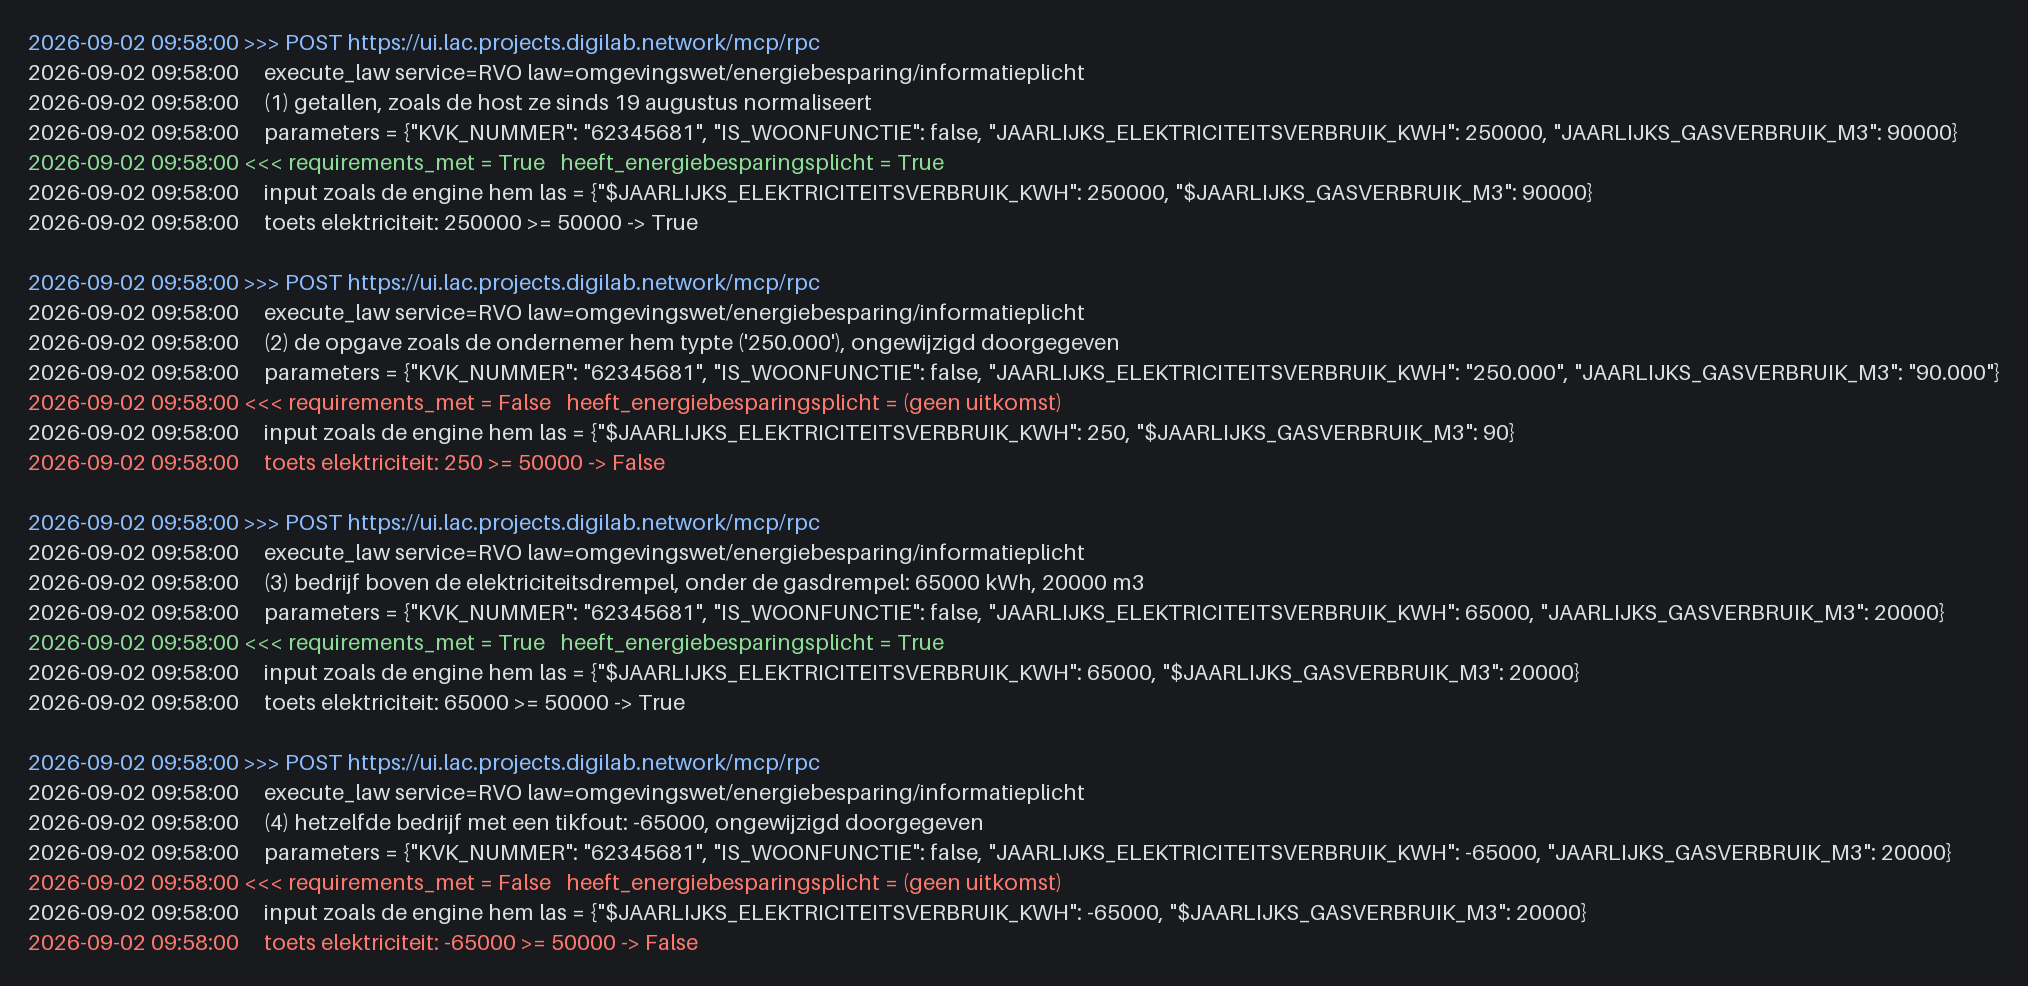
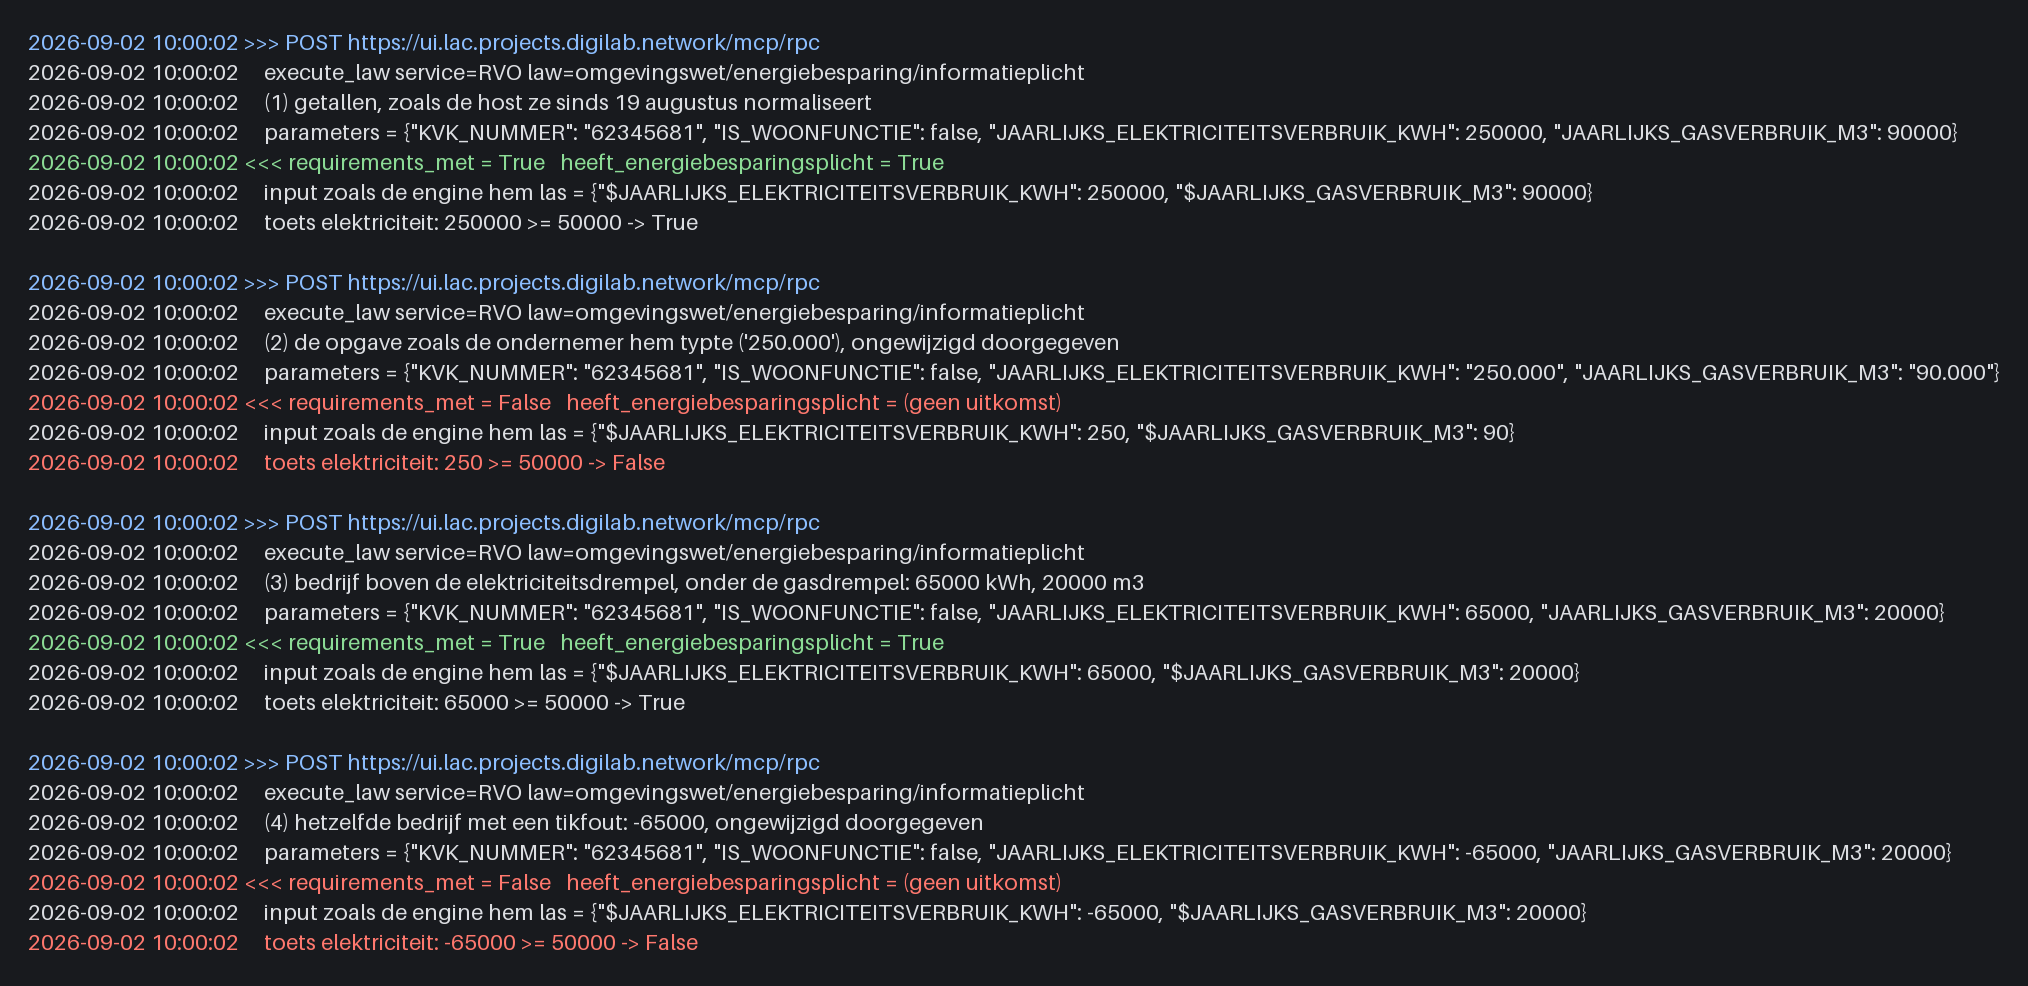
docs: PDR-014 vierde reviewronde
De zin over de volgende rapportageronde met datum bleek een
promptvoorbeeld met een slot dat de host vult, geen uitspraak van het
model; uit PDR, rapport en beoordeling gehaald. Verder: twee bronnen
plus de toets in plaats van drie bronnen; het guardrail-citaat
letterlijk; zes onbesproken punten uit de pre-read van 23 juli en de
Koen-correctie in de vervolgacties; de KvK-promptregel letterlijk;
figuur 3 opnieuw gerenderd uit de gecommitte log; script voor de
zestig engine-runs toegevoegd; tellingen 4,85 s en 7 van 12.

diff --git a/docs/superpowers/plans/toets-pdr-014/maak-engine-runs.py b/docs/superpowers/plans/toets-pdr-014/maak-engine-runs.py
@@ -1,0 +1,82 @@
+"""Maakt engine-runs.json: zes invoercases, elk tien keer, tegen de echte engine.
+
+Meet of de engine deterministisch is (identieke uitkomst per case) en hoe lang
+een aanroep duurt. Geen taalmodel, geen sleutel; wel netwerk.
+
+    uv run python docs/superpowers/plans/toets-pdr-014/maak-engine-runs.py
+"""
+
+import json
+import os
+import statistics
+import time
+from pathlib import Path
+
+import httpx
+
+URL = os.getenv("REGELRECHT_RPC_URL", "https://ui.lac.projects.digilab.network/mcp/rpc")
+LAW = "omgevingswet/energiebesparing/informatieplicht"
+RUNS = 10
+UIT = Path(__file__).parent / "engine-runs.json"
+
+BASIS = {"KVK_NUMMER": "62345681", "IS_WOONFUNCTIE": False}
+CASES = {
+    "E1 genormaliseerd 250000/90000": {
+        **BASIS, "JAARLIJKS_ELEKTRICITEITSVERBRUIK_KWH": 250000, "JAARLIJKS_GASVERBRUIK_M3": 90000
+    },
+    "E2 string '250.000'/'90.000'": {
+        **BASIS, "JAARLIJKS_ELEKTRICITEITSVERBRUIK_KWH": "250.000", "JAARLIJKS_GASVERBRUIK_M3": "90.000"
+    },
+    "E3 65000/20000": {
+        **BASIS, "JAARLIJKS_ELEKTRICITEITSVERBRUIK_KWH": 65000, "JAARLIJKS_GASVERBRUIK_M3": 20000
+    },
+    "E4 tikfout -65000/20000": {
+        **BASIS, "JAARLIJKS_ELEKTRICITEITSVERBRUIK_KWH": -65000, "JAARLIJKS_GASVERBRUIK_M3": 20000
+    },
+    "E5 leeg {}": {},
+    "E6 alleen KVK+woonfunctie": BASIS,
+}
+
+
+def aanroep(parameters: dict) -> tuple[dict, float]:
+    body = {
+        "jsonrpc": "2.0",
+        "id": 1,
+        "method": "tools/call",
+        "params": {
+            "name": "execute_law",
+            "arguments": {"service": "RVO", "law": LAW, "parameters": parameters},
+        },
+    }
+    t0 = time.perf_counter()
+    s = httpx.post(URL, json=body, timeout=30).json()["result"]["structuredContent"]
+    return s, time.perf_counter() - t0
+
+
+def main() -> None:
+    uit = {}
+    for naam, parameters in CASES.items():
+        uitkomsten, duren = [], []
+        for _ in range(RUNS):
+            s, duur = aanroep(parameters)
+            duren.append(duur)
+            uitkomsten.append(json.dumps({
+                "requirements_met": s["requirements_met"],
+                "plicht": s["output"].get("heeft_energiebesparingsplicht"),
+                "missing": s.get("missing_parameters"),
+                "input": {k: v for k, v in s["input"].items() if "VERBRUIK" in k},
+            }, sort_keys=True))
+        uit[naam] = {
+            "runs": RUNS,
+            "identiek": len(set(uitkomsten)) == 1,
+            "uitkomst": json.loads(uitkomsten[0]),
+            "ms_mediaan": round(statistics.median(duren) * 1000),
+            "ms_max": round(max(duren) * 1000),
+        }
+        print(naam, "| identiek:", uit[naam]["identiek"], "| ms mediaan/max",
+              uit[naam]["ms_mediaan"], uit[naam]["ms_max"])
+    UIT.write_text(json.dumps(uit, ensure_ascii=False, indent=1) + "\n")
+
+
+if __name__ == "__main__":
+    main()

diff --git a/docs/superpowers/plans/2026-09-02-toets-pdr-014.md b/docs/superpowers/plans/2026-09-02-toets-pdr-014.md
@@ -26,8 +26,9 @@ Die beoordeling heeft dit rapport op zes punten gecorrigeerd; zie
 Daarnaast:
 
 - **Engine direct, zonder taalmodel:** 6 invoercases × 10 runs op de
-  informatieplicht-regel (`toets-pdr-014/engine-runs.json`; script
-  `docs/decisions/assets/pdr-014/maak-log3.py`).
+  informatieplicht-regel (`toets-pdr-014/engine-runs.json`, gemaakt met
+  `toets-pdr-014/maak-engine-runs.py`; de vier aanroepen van figuur 3 komen
+  uit `docs/decisions/assets/pdr-014/maak-log3.py`).
 - **Losse eerste beurten:** 6 vragen × 3 runs op main en 3 vragen × 3 runs op
   f22f063 (`toets-pdr-014/vage-vragen.json`, `vage-vragen-2.json`). De
   informatieplicht-flow begint met een toestemmingsvraag en is daarom geen
@@ -37,7 +38,8 @@ Daarnaast:
   staan in `docs/decisions/assets/pdr-014/log4-*.txt` en `log5-*.txt`). De
   host logt elke tool-aanroep van het model als `Tool-aanroep [claude]: …` en
   elke weigering van de toestemmingspoort als `WARNING: Bron … geweigerd`.
-  De regelloop logt niets; een aanroep die in de log staat is van het model.
+  De regelloop logt zelf geen tool-aanroep (alleen de MCP-server schrijft een
+  `AUDIT`-regel); een `Tool-aanroep [claude]`-regel is dus van het model.
 
 Alle beurten zijn geklokt door `toets-pdr-014/meet.py` (wrapper om het
 meetscript); de analyse staat in `toets-pdr-014/analyse.py`, de uitvoer in
@@ -89,8 +91,8 @@ f22f063.
 | C1 | `"250.000"` komt bij de engine als 250 binnen; `-65000` geeft geen uitkomst (Kloof trede 5, Onderbouwing A, figuur 3) | **bevestigd, met precisering** | engine 10/10 identiek per case: E2 `"250.000"` → input 250, `"90.000"` → 90, `requirements_met=false`, `plicht=null`; E4 `-65000` idem. De engine geeft geen uitkomst en meldt geen ontbrekend veld; de host toonde dat vóór 19 augustus als "de plicht geldt niet". De PDR-tekst is daarop aangescherpt |
 | C2 | De eerste beurt bevat al uitspraken over wat geldt, bedragen, termijnen of indiening, vóórdat een bron is geraadpleegd (Kloof; Onderbouwing A "toezeggingen") | **niet bevestigd** | 37 eerste beurten (10 flow, 27 los). Regex-treffers over de 27 losse beurten: 8 antwoorden op main, 1 op f22f063, alle negen nagelezen: "Deadline: 1/31 december 2026" uit `rvo__zoek_regeling` (bron), "of dit voor u geldt kan ik toetsen zodra…" (voorbehoud), "Dan moet u vierjaarlijks rapporteren" (weergave van de regelingstekst, uit de bron), en keuze- of vraagzinnen ("Of de energiebesparingsplicht voor uw bedrijf geldt. Vraag dan…", "Kom ik in aanmerking…?"). Geen uitspraak over de situatie van de ondernemer zonder bron of voorbehoud. Flow-beurt 1 is 10/10 een toestemmingsvraag; arbeidsmarktvragen worden 12/12 geweigerd; "hoe zit dat dan met die verplichting" krijgt 3/3 de verduidelijkingsvraag met drie opties |
 | C3 | "Uw rapportage is ingediend" in de beurt die nog om bevestiging vraagt | **niet waargenomen** | 0/5 op main; f22f063 kwam niet tot indienen (beperking 1). Historisch geval van 13 augustus blijft staan als citaat |
-| C4 | Twee deadlines (2026 vs 2027) afhankelijk van de bron | **niet meer waargenomen**; wel een verwante termijnuitspraak | main 5/5 alleen "1 december 2026"; f22f063 noemt geen datum. Maar in beurt 7 zegt main 4/5: "Bij de volgende rapportageronde (1 december 2026) staat het voorwerk al klaar." De datum komt uit de engine en de zin over de volgende rapportageronde is een promptinstructie (`tool_usage.md`); alleen de koppeling van die datum aan de volgende ronde is van het model. Opgenomen in de PDR |
-| C5 | De wet draait op zijn vroegst in de tweede beurt; 5–45 s per beurt; de ondernemer weet niet wanneer er getoetst is (Kloof; Onderbouwing A "duurt lang") | **deels; cijfers vervangen** | f22f063: wet en uitkomst in beurt 2 (5/5), na één modelbeurt van 18–40 s waarin KvK, wallet en regel in één keer draaien; mediaan 4,8 s per beurt. main: `execute_law` in beurt 1 (5/5), uitkomst in beurt 3 (5/5), mediaan 16 s per beurt, max 43 s, 95–163 s per run. Engine zelf: 54–63 ms. De PDR-zin "op zijn vroegst beurt 2" klopte voor 13 augustus; voor main is hij vervangen door de gemeten cijfers |
+| C4 | Twee deadlines (2026 vs 2027) afhankelijk van de bron | **niet meer waargenomen** | main 5/5 alleen "1 december 2026"; f22f063 noemt geen datum. De zin in beurt 7 "Bij de volgende rapportageronde (1 december 2026) staat het voorwerk al klaar" (4/5) is geen modeluitspraak: hij staat als voorbeeld in `prompts/examples/informatieplicht_flow.md` met het slot `{{VOLGENDE_DEADLINE}}`, dat de host vult uit de engine |
+| C5 | De wet draait op zijn vroegst in de tweede beurt; 5–45 s per beurt; de ondernemer weet niet wanneer er getoetst is (Kloof; Onderbouwing A "duurt lang") | **deels; cijfers vervangen** | f22f063: wet en uitkomst in beurt 2 (5/5), na één modelbeurt van 18–40 s waarin KvK, wallet en regel in één keer draaien; mediaan 4,85 s per beurt. main: `execute_law` in beurt 1 (5/5), uitkomst in beurt 3 (5/5), mediaan 16 s per beurt, max 43 s, 95–163 s per run. Engine zelf: 54–63 ms. De PDR-zin "op zijn vroegst beurt 2" klopte voor 13 augustus; voor main is hij vervangen door de gemeten cijfers |
 | C6 | Het model zoekt de RVO-regeling verkeerd (extra rondes) en start regels op eigen initiatief (Onderbouwing A) | **zoeken: niet meer waargenomen; eigen initiatief: bevestigd, in milde vorm** | `rvo__zoek_regeling` 0× in 10 flow-runs (de prompt noemt EBR-2026 sinds `84b95ec`). Host-log main: 9× `Tool-aanroep [claude]: regelrecht__execute_law` naast de regelloop, waarvan 6× afgevangen met "Regel al bepaald door de regelloop; uitkomst hergebruikt" (`log4`). Het gedrag van figuur 4 bestaat nog; de fix van 25 augustus vangt het af |
 | C7 | Het model probeert een bron aan te roepen vóór toestemming; de poort weigert (Onderbouwing A, figuur 5) | **bevestigd** | Host-log main: 14 weigeringen, elk direct na een `Tool-aanroep [claude]`: 11× `kvk__mijn_bedrijf`, 3× `netbeheerder__verbruik` (`log5`). In de flow 7 (kvk 5, netbeheerder 2 over 5 runs); de rest bij losse vragen. `netbeheerder__verbruik` is in geen enkele run vóór akkoord geraadpleegd (PDR-008-controle 10/10). Voor de wallet bestaat een harde promptregel (`tool_usage.md`: nooit zelf aanroepen) en die hield 3× niet; voor de KvK schrijft dezelfde prompt juist voor `kvk__mijn_bedrijf` te gebruiken, en het statusblok bij een KvK-wachtstand noemt alleen de wallet (`composer.py`). De code houdt de volgorde in beide gevallen vast |
 | C8 | De maatregelenbeurt voegt niets toe, vragen worden herhaald | **niet waargenomen op main** | controle "deze beurt voegt iets toe" 5/5. f22f063 herhaalt in beurt 4–6 dezelfde vier vragen (5/5), maar door beperking 1 |
@@ -140,8 +142,8 @@ woonfunctie heeft") en `suggestion`. Dat is de route van PDR-008 die de PDR in
 de tabel "Velden" als "werkt live" opvoert; hier staat het meetbewijs.
 
 **Modelkennis kiest regelingen buiten de flow.** Bij de arbeidsmarktvraag
-noemt het model in 4 van 12 antwoorden uit eigen kennis "loonkostensubsidie"
-of "de banenafspraak", zonder bron, en de doorverwijzing wisselt per run.
+noemt het model in 7 van 12 antwoorden uit eigen kennis "loonkostensubsidie"
+of "de banenafspraak", zonder bron (bij drie daarvan stond het woord al in de vraag), en de doorverwijzing wisselt per run.
 Geen toezegging, wel de wettenselectie uit modelkennis die de PDR in
 Onderbouwing B benoemt.
 
@@ -155,8 +157,7 @@ de nulmeting (4/5 op dat laatste) is gedicht.
 1. **Kloof, "Toezeggingen vóórdat de toets heeft gedraaid."** Herschreven
    van "precies daar staat wat er waarschijnlijk geldt" naar een risico dat
    door een promptregel wordt bewaakt, met de meting (0 toezeggingen in 37
-   eerste beurten) én de incidenten (13 en 24 augustus, en de
-   termijnkoppeling in beurt 7 van 2 september).
+   eerste beurten) én de incidenten (13 en 24 augustus).
 2. **Kloof, "De eerste beurt raakt per ontwerp geen bron aan."** Op main
    onwaar: `execute_law` met lege parameters en een openbare regelingenlijst
    draaien wel. Nu: "geen bron met gegevens over de ondernemer".

diff --git a/docs/decisions/PDR-014-chat-geparkeerd-tot-de-vertaling-naar-wet-klopt.md b/docs/decisions/PDR-014-chat-geparkeerd-tot-de-vertaling-naar-wet-klopt.md
@@ -97,12 +97,10 @@ gemeten: in 37 eerste beurten op 2 september (flow en losse vragen, oude en
 nieuwe host) stond geen enkele uitspraak over wat geldt, een bedrag, een
 termijn of een indiening die niet uit een bron kwam of van een voorbehoud was
 voorzien. Dat het níet altijd goed gaat, is ook gemeten: "Uw rapportage is
-ingediend" in de beurt die nog om bevestiging vroeg (13 augustus), twee
-verschillende deadlines afhankelijk van de bron (24 augustus), en na de toets
-een termijn die het model aan de "volgende rapportageronde" koppelt (2
-september, 4 van 5 runs; de zin over de volgende ronde is een
-promptinstructie, de datum erbij is van het model). De grens wordt bewaakt door een promptregel ("geef NOOIT
-bedragen, deadlines of termijnen tenzij uit een tool-resultaat"), en een
+ingediend" in de beurt die nog om bevestiging vroeg (13 augustus), en twee
+verschillende deadlines afhankelijk van de bron (24 augustus). De grens wordt
+bewaakt door een promptregel ("Geef NOOIT specifieke bedragen, deadlines of
+termijnen tenzij deze direct uit een tool-resultaat komen"), en een
 promptregel houdt meestal. Op 10 augustus lag de vraag op tafel of één
 uitspraak van een overheidskanaal die er doorheen glipt, gerechtvaardigd
 vertrouwen wekt.
@@ -113,7 +111,7 @@ verduidelijkingsvraag of een toestemmingsvraag, geeft antwoord, en pas
 daarna kiest het model een wet, roept een bron aan, en soms nog een.
 Gemeten op 2 september: op de host van 13 augustus (het model orkestreert)
 leest de ondernemer de uitkomst in beurt 2, na een modelbeurt van 18 tot 40
-seconden waarin drie bronnen en de toets in één keer draaien; op de huidige
+seconden waarin twee bronnen en de toets in één keer draaien; op de huidige
 host (de regel stuurt) leest hij de uitkomst in beurt 3, na mediaan 16
 seconden per beurt en 95 tot 163 seconden per doorloop. De engine zelf doet
 er 60 milliseconden over. Vrijwel alle tijd zit in het model en het gesprek
@@ -402,8 +400,9 @@ moment.**
   en `netbeheerder__verbruik` aan te roepen voordat de ondernemer op Delen
   heeft geklikt; de poort weigert. Voor de wallet staat er een harde
   promptregel ("roep `netbeheerder__verbruik` nooit zelf aan") en die hield
-  drie keer niet; voor de KvK zegt de prompt juist "gebruik
-  `kvk__mijn_bedrijf`", en houdt alleen de code de volgorde vast. In beide
+  drie keer niet; over de KvK zegt de prompt niets over akkoord en schrijft
+  hij bij bedrijfsgegevens "Gebruik tool kvk__mijn_bedrijf" voor, en houdt
+  alleen de code de volgorde vast. In beide
   gevallen ligt de grens in code.*
 - De maatregelenregel kwam erbij als het model besloot dat de vraag erom
   vroeg. Artikel 5.15d Bal draagt op te rapporteren over de getroffen
@@ -468,8 +467,9 @@ moment.**
   60 milliseconden; de tijd zit in het model.
 - Ook met juristen erbij duurt het bepalen welke wet geldt lang. Op 23 juli
   kostte het een sessie om vast te stellen dat jobcoaching voor Sadee niet
-  via Wet WIA 35 loopt maar via Wajong 2:22, en drie punten uit de pre-read
-  kwamen die middag niet eens aan bod. Een taalmodel dat dit in één beurt
+  via Wet WIA 35 loopt maar via Wajong 2:22, en zes punten uit de pre-read
+  kwamen die middag niet eens aan bod; de naar-rato-correctie voor Koen kwam
+  pas in de vervolgacties van augustus. Een taalmodel dat dit in één beurt
   "even" beslist, beslist iets waar de uitvoering weken over doet.
 
 **De architectuur is de afgelopen maand al opgeschoven naar wat hier wordt

diff --git a/docs/superpowers/plans/toets-pdr-014/beoordeling.md b/docs/superpowers/plans/toets-pdr-014/beoordeling.md
@@ -7,7 +7,11 @@
 > `main/main-run*.json` en `f22f063/f22f063-run*.json` en bevatten de
 > volledige events. De cijfers 28 (eerste beurten) en 8 (weigeringen in de flow) zijn
 > in rapport en PDR vervangen door 37 en 7 (14 met de losse vragen erbij). Onder C.4 klopt "f22f063 run 2"
-> niet: alleen main run 2 noemt loonkostensubsidie en banenafspraak.
+> niet: alleen main run 2 noemt loonkostensubsidie en banenafspraak. Punt C.3
+> (termijnuitspraak in beurt 7) is achterhaald: die zin is een promptvoorbeeld
+> met het slot `{{VOLGENDE_DEADLINE}}`, gevuld door de host. Punt C.6 zegt
+> "drie bronnen": het zijn twee bronnen plus de toets. De beperkingen in het
+> rapport zijn hernummerd (de peiling-beperking is nu 3).
 
 Datum 2026-09-02. Gelezen: PDR-014, het meetrapport van 2 september, de
 bestanden onder `toets-pdr-014/` (runs-main.json, runs-f22f063.json,
